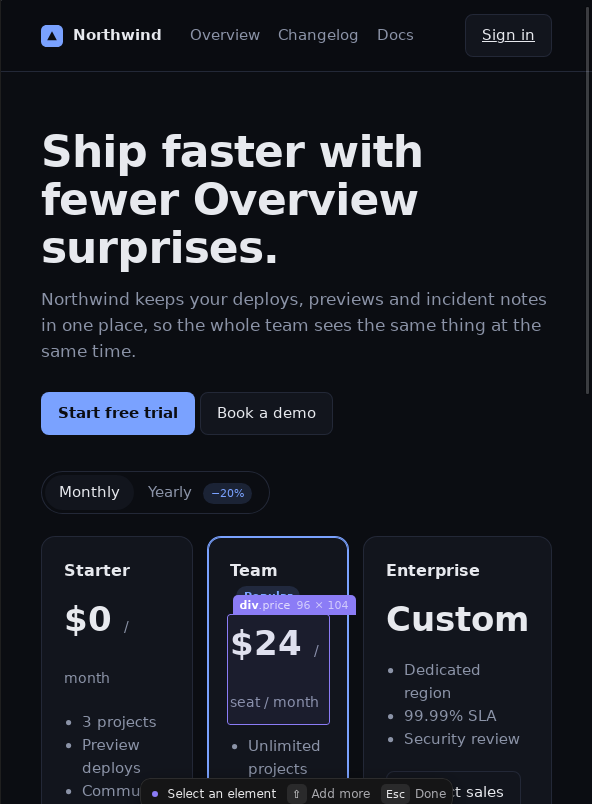
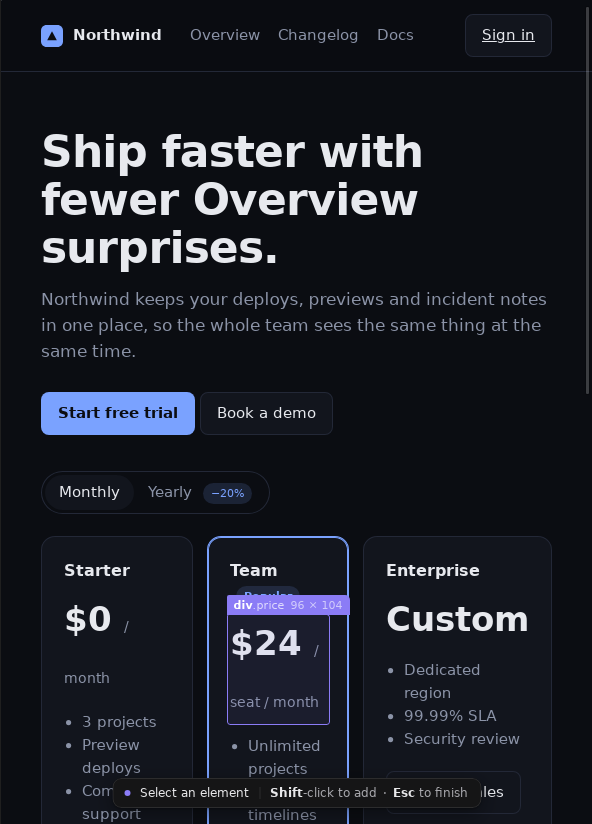
Browser annotations: square the labelled corner, flush-left labels, lighter hint
Every outline's top-left corner carries its label (the hover flag, a
marker's tab or a small element's flag), so it keeps a 2px radius while the
other corners follow the element, and labels sit flush against the
outline's left edge instead of starting after its curve.

The hint drops its keycap boxes and the tiny ⇧ glyph for inline text:
"Select an element | Shift-click to add · Esc to finish".

diff --git a/crates/ui/src/browser/annotate.js b/crates/ui/src/browser/annotate.js
@@ -172,13 +172,16 @@
   };
   // Outlines sit just outside the element (a gap, then the 1.5px line), so
   // they never draw over its own border, and round like it does.
-  const BORDER = 1.5, GAP = 2, OUT = BORDER + GAP, FLAG = 20, TAB = 18;
+  // The top-left corner carries the label, so it stays nearly square and the
+  // label sits flush against the outline's left edge.
+  const BORDER = 1.5, GAP = 2, OUT = BORDER + GAP, FLAG = 20, TAB = 18, CORNER = 2;
   const ring = (el, r) => {
     const own = Math.min(parseFloat(getComputedStyle(el).borderTopLeftRadius) || 0, r.width / 2, r.height / 2);
     return { left: r.left - OUT, top: r.top - OUT, width: r.width + OUT * 2, height: r.height + OUT * 2, radius: Math.min(own + OUT, 18) || 4 };
   };
   const place = (node, box) => Object.assign(node.style, {
-    left: box.left + 'px', top: box.top + 'px', width: box.width + 'px', height: box.height + 'px', borderRadius: box.radius + 'px',
+    left: box.left + 'px', top: box.top + 'px', width: box.width + 'px', height: box.height + 'px',
+    borderRadius: `${CORNER}px ${box.radius}px ${box.radius}px ${box.radius}px`,
   });
   const shadowHost = (tag, z, css) => {
     const node = document.createElement(tag);
@@ -190,16 +193,16 @@
   };
   // The accent flag: the hover label and a small element's number. It grows
   // out of the outline's top edge (or hangs inside it near the viewport top).
-  const FLAG_CSS = `.flag{position:fixed;display:none;align-items:center;height:${FLAG}px;padding:0 7px;border-radius:5px 5px 0 0;
+  const FLAG_CSS = `.flag{position:fixed;display:none;align-items:center;height:${FLAG}px;padding:0 7px;border-radius:${CORNER}px 5px 0 0;
       background:var(--accent);color:var(--on-accent);font:500 11px/1 var(--font);white-space:nowrap;overflow:hidden;max-width:min(70vw,440px)}
-    .flag.inside{border-radius:0 0 5px 5px}
+    .flag.inside{border-radius:0 0 5px 0}
     .flag b,.flag .n{font-weight:650}
     .flag .n,.flag .dim{font-variant-numeric:tabular-nums;flex:none}
     .flag .cls{opacity:.72;overflow:hidden;text-overflow:ellipsis}
     .flag .n{margin-right:6px}
     .flag .dim{opacity:.6;margin-left:6px}`;
   const flagAt = (flag, box, height) => {
-    const left = Math.max(4, Math.min(box.left + Math.max(box.radius, 6), innerWidth - flag.offsetWidth - 4));
+    const left = Math.max(0, Math.min(box.left, innerWidth - flag.offsetWidth));
     const above = box.top - height + BORDER;
     const inside = above < 2;
     flag.classList.toggle('inside', inside);
@@ -213,21 +216,20 @@
       .box{position:fixed;display:none;border:${BORDER}px solid var(--accent);background:color-mix(in srgb,var(--accent) 8%,transparent);
         transition:left 80ms ease-out,top 80ms ease-out,width 80ms ease-out,height 80ms ease-out,border-radius 80ms ease-out}
       ${FLAG_CSS}
-      .hint{position:fixed;left:50%;bottom:14px;display:flex;align-items:center;gap:10px;height:32px;padding:0 6px 0 11px;border-radius:10px;
+      .hint{position:fixed;left:50%;bottom:16px;display:flex;align-items:center;gap:10px;height:30px;padding:0 12px 0 11px;border-radius:9px;
         background:var(--surface);border:1px solid var(--border);box-shadow:var(--shadow);font:500 12px/1 var(--font);color:var(--text);white-space:nowrap;
         transform:translate(-50%,0);transition:opacity 140ms ease-out,transform 140ms ease-out}
       .hint.enter{opacity:0;transform:translate(-50%,4px)}
-      .hint.top{bottom:auto;top:14px}
+      .hint.top{bottom:auto;top:16px}
       .hint .dot{width:6px;height:6px;border-radius:3px;background:var(--accent);flex:none}
-      .hint .keys{display:flex;align-items:center;gap:5px;color:var(--muted);font-weight:400}
-      .hint .keys kbd+span+kbd{margin-left:6px}
-      .hint kbd{display:inline-flex;align-items:center;justify-content:center;min-width:20px;height:20px;padding:0 5px;border-radius:5px;
-        background:var(--chip);color:var(--text);font:500 11px/1 var(--font)}
+      .hint .sep{width:1px;height:12px;background:var(--border);flex:none}
+      .hint .keys{color:var(--muted);font-weight:400}
+      .hint .keys b{color:var(--text);font-weight:600}
       @media (prefers-reduced-motion:reduce){.box,.hint{transition:none}}
     `);
     root.innerHTML += `<div class="box"></div><div class="flag"></div>
-      <div class="hint enter"><span class="dot"></span><span class="title">Select an element</span>
-      <span class="keys"><kbd>⇧</kbd><span>Add more</span><kbd>Esc</kbd><span>Done</span></span></div>`;
+      <div class="hint enter"><span class="dot"></span><span class="title">Select an element</span><span class="sep"></span>
+      <span class="keys"><b>Shift</b>-click to add&ensp;·&ensp;<b>Esc</b> to finish</span></div>`;
     ui = { box: root.querySelector('.box'), flag: root.querySelector('.flag'), hint: root.querySelector('.hint'), title: root.querySelector('.title') };
     requestAnimationFrame(() => ui && ui.hint.classList.remove('enter'));
     const cursor = document.createElement('style');
@@ -283,8 +285,6 @@
       if (mark.small) {
         flagAt(mark.flag, box, TAB);
       } else {
-        mark.tab.style.borderRadius = `${Math.min(box.radius, TAB)}px 0 6px 0`;
-        mark.tab.style.paddingLeft = Math.max(6, box.radius * 0.45) + 'px';
         // An outline cut off by the viewport's top keeps its number in view.
         const hidden = Math.max(0, -box.top);
         mark.tab.style.transform = hidden ? `translateY(${Math.min(hidden, box.height - TAB)}px)` : '';
@@ -300,7 +300,7 @@
           transition:background-color 120ms ease-out}
         .mark.focus{background:color-mix(in srgb,var(--accent) 16%,transparent)}
         .tab{position:absolute;left:-${BORDER}px;top:-${BORDER}px;display:flex;align-items:center;justify-content:center;
-          min-width:24px;height:${TAB}px;padding:0 7px 0 6px;background:var(--accent);color:var(--on-accent);
+          min-width:20px;height:${TAB}px;padding:0 6px;border-radius:${CORNER}px 0 5px 0;background:var(--accent);color:var(--on-accent);
           font:650 11px/1 var(--font);font-variant-numeric:tabular-nums}
         .tab:empty{visibility:hidden}
         ${FLAG_CSS}

diff --git a/docs/reference/browser-annotations.md b/docs/reference/browser-annotations.md
@@ -13,11 +13,13 @@ and UI font) from the host, so it reads as Zeron chrome in light and dark.
 
 - Outlines sit just outside the element (a 2px gap, then a 1.5px accent
   line) and round like it, so they never draw over the element's own border.
+  The top-left corner carries the label, so it stays nearly square and the
+  label sits flush against the outline's left edge.
 - The hovered element's label is an accent flag growing out of the outline's
   top edge (hanging inside it near the top of the viewport): the tag, its
   `#id.class` and `w × h`, led by its number once it is picked.
-- A hint pill names the mode and its keys: **Select an element**,
-  <kbd>⇧</kbd> **Add more**, <kbd>Esc</kbd> **Done**. It moves to the top when
+- A hint pill names the mode and its keys: **Select an element** |
+  **Shift**-click to add · **Esc** to finish. It moves to the top when
   the pointer is near the bottom of the page.
 - A click picks the element and ends the mode; Shift+click picks several (the
   hint counts them); Escape (in the page or the toolbar) or the button ends it.
@@ -27,7 +29,7 @@ The host polls `take(nonce)` every 100 ms only while a pick is active. When the
 page navigates, the poll reports `gone` and the session ends.
 
 Each picked element keeps its outline, numbered like its chip. The number is
-a tab cut into the outline's top-left corner, sharing its radius; an element
+a tab in the outline's top-left corner, flush with its edges; an element
 too small to hold one wears it as a flag on its top edge instead. The number
 stays in view when the outline is cut off by the viewport, and markers
 repaint only when something moves (scroll, resize, layout or DOM changes).
